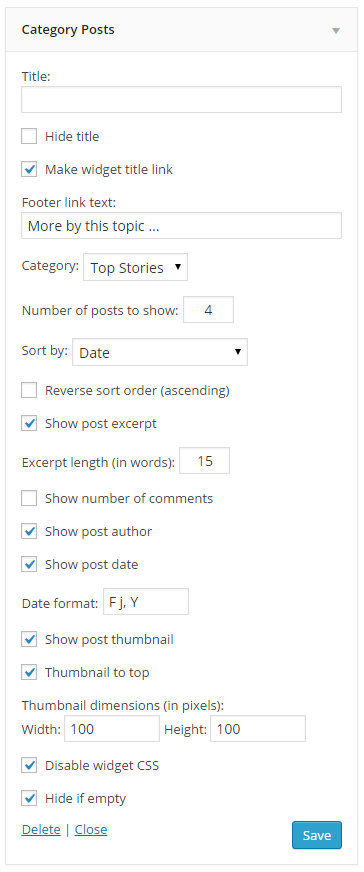
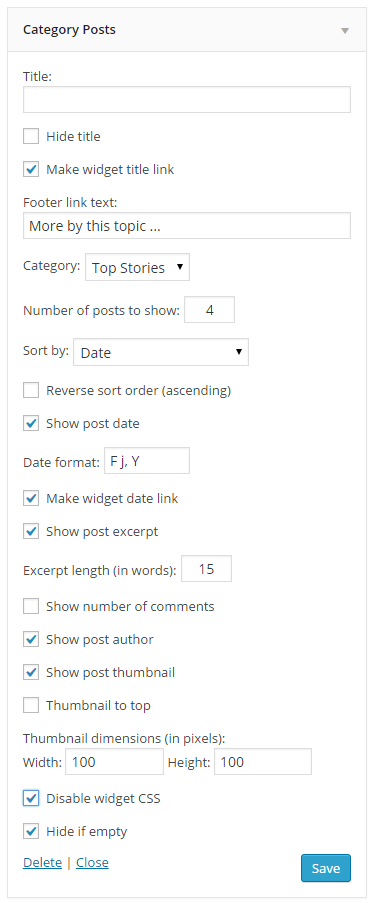
Bugfix and other refactoring
Bugfix for: wrong php open in L.150, '<?' instead '<?php'.

diff --git a/cat-posts.css b/cat-posts.css
@@ -2,21 +2,26 @@
 Default CSS Styles for the Category Posts Widget plugin
 Version: 4.1.3
 */
-.cat-post-current,
-.cat-post-date,
-.cat-post-comment-num {
-	font-size: 12px;	
-	line-height: 18px;
-}
 .cat-post-title {
-	font-size: 15px;	
+	font-size: 15px;
+	font-size: 0.9375rem;
 }
-.cat-post-current a {
+.cat-post-current .cat-post-title {
 	font-weight: bold;
 	text-transform: uppercase;
 }
+.cat-post-date,
+.cat-post-comment-num {
+	font-size: 12px;
+	font-size: 0.75rem;
+	line-height: 18px;
+	line-height: 1.125rem;
+	margin-bottom: 0;
+}
 .cat-post-date {
 	font-style: italic;
+}
+.cat-post-author {
 	margin-bottom: 0;
 }
 .cat-post-thumbnail img {

diff --git a/cat-posts.php b/cat-posts.php
@@ -136,19 +136,12 @@ class CategoryPosts extends WP_Widget {
 						href="<?php the_permalink(); ?>" rel="bookmark"><?php the_title(); ?>
 					</a>
 
-					<?php if ( isset( $instance['author'] ) ) : ?>
-						<p class="post-author <?php if( !isset( $instance['disable_css'] ) ) { echo " cat-post-author"; } ?>">			
-							<?php the_author_posts_link(); ?>
-						</p>
-					<?php endif; ?>
-
 					<?php if ( isset( $instance['date'] ) ) : ?>
 						<?php if ( isset( $instance['date_format'] ) && strlen( trim( $instance['date_format'] ) ) > 0 ) { $date_format = $instance['date_format']; } else { $date_format = "j M Y"; } ?>
-						<p class="post-date <?php if( !isset( $instance['disable_css'] ) ) { echo " cat-post-date"; } ?>">
+						<p class="post-date <?php if( !isset( $instance['disable_css'] ) ) { echo "cat-post-date"; } ?>">						
 						<?php if( isset ( $instance["date_link"] ) ) { ?> <a href="<?php the_permalink(); ?>"><?php } ?>
-							<?php the_time("j M Y"); ?>
-						<? if( isset ( $instance["date_link"] ) ) { echo '</a>'; } ?>
 							<?php the_time($date_format); ?>
+						<?php if( isset ( $instance["date_link"] ) ) { echo "</a>"; } ?>
 						</p>
 					<?php endif;
 
@@ -163,14 +156,20 @@ class CategoryPosts extends WP_Widget {
 							</a>
 					<?php endif;
 					endif;
-						
+
 					if ( isset( $instance['excerpt'] ) ) : 
 						the_excerpt();
 					endif;
-
+					
 					if ( isset( $instance['comment_num'] ) ) : ?>
 						<p class="comment-num <?php if( !isset( $instance['disable_css'] ) ) { echo "cat-post-comment-num"; } ?>">
 							(<?php comments_number(); ?>)
+						</p>
+					<?php endif;					
+
+					if ( isset( $instance['author'] ) ) : ?>
+						<p class="post-author <?php if( !isset( $instance['disable_css'] ) ) { echo "cat-post-author"; } ?>">
+							<?php the_author_posts_link(); ?>
 						</p>
 					<?php endif; ?>
 				</li>
@@ -327,6 +326,24 @@ class CategoryPosts extends WP_Widget {
 			</label>
 		</p>
 		<p>
+			<label for="<?php echo $this->get_field_id("date"); ?>">
+				<input type="checkbox" class="checkbox" id="<?php echo $this->get_field_id("date"); ?>" name="<?php echo $this->get_field_name("date"); ?>"<?php checked( (bool) $instance["date"], true ); ?> />
+				<?php _e( 'Show post date' ); ?>
+			</label>
+		</p>
+		<p>
+			<label for="<?php echo $this->get_field_id("date_format"); ?>">
+				<?php _e( 'Date format:' ); ?>
+			</label>
+			<input class="text" id="<?php echo $this->get_field_id("date_format"); ?>" name="<?php echo $this->get_field_name("date_format"); ?>" type="text" value="<?php echo esc_attr($instance["date_format"]); ?>" size="8" />
+		</p>		
+		<p>
+			<label for="<?php echo $this->get_field_id("date_link"); ?>">
+				<input type="checkbox" class="checkbox" id="<?php echo $this->get_field_id("date_link"); ?>" name="<?php echo $this->get_field_name("date_link"); ?>"<?php checked( (bool) $instance["date_link"], true ); ?> />
+				<?php _e( 'Make widget date link' ); ?>
+			</label>
+		</p>		
+		<p>
 			<label for="<?php echo $this->get_field_id("excerpt"); ?>">
 				<input type="checkbox" class="checkbox" id="<?php echo $this->get_field_id("excerpt"); ?>" name="<?php echo $this->get_field_name("excerpt"); ?>"<?php checked( (bool) $instance["excerpt"], true ); ?> />
 				<?php _e( 'Show post excerpt' ); ?>
@@ -343,29 +360,13 @@ class CategoryPosts extends WP_Widget {
 				<input type="checkbox" class="checkbox" id="<?php echo $this->get_field_id("comment_num"); ?>" name="<?php echo $this->get_field_name("comment_num"); ?>"<?php checked( (bool) $instance["comment_num"], true ); ?> />
 				<?php _e( 'Show number of comments' ); ?>
 			</label>
-		</p>
+		</p>		
 		<p>
 			<label for="<?php echo $this->get_field_id("author"); ?>">
 				<input type="checkbox" class="checkbox" id="<?php echo $this->get_field_id("author"); ?>" name="<?php echo $this->get_field_name("author"); ?>"<?php checked( (bool) $instance["author"], true ); ?> />
 				<?php _e( 'Show post author' ); ?>
 			</label>
-		</p>
-		<p>
-			<label for="<?php echo $this->get_field_id("date"); ?>">
-				<input type="checkbox" class="checkbox" id="<?php echo $this->get_field_id("date"); ?>" name="<?php echo $this->get_field_name("date"); ?>"<?php checked( (bool) $instance["date"], true ); ?> />
-				<?php _e( 'Show post date' ); ?>
-			</label>
-		</p>
-		<p>
-			<label for="<?php echo $this->get_field_id("date_link"); ?>">
-				<input type="checkbox" class="checkbox" id="<?php echo $this->get_field_id("date_link"); ?>" name="<?php echo $this->get_field_name("date_link"); ?>"<?php checked( (bool) $instance["date_link"], true ); ?> />
-				<?php _e( 'Make widget date link' ); ?>
-			</label>
-			<label for="<?php echo $this->get_field_id("date_format"); ?>">
-				<?php _e( 'Date format:' ); ?>
-			</label>
-			<input class="text" id="<?php echo $this->get_field_id("date_format"); ?>" name="<?php echo $this->get_field_name("date_format"); ?>" type="text" value="<?php echo esc_attr($instance["date_format"]); ?>" size="8" />
-		</p>
+		</p>		
 		<?php if ( function_exists('the_post_thumbnail') && current_theme_supports("post-thumbnails") ) : ?>
 			<p>
 				<label for="<?php echo $this->get_field_id("thumb"); ?>">
